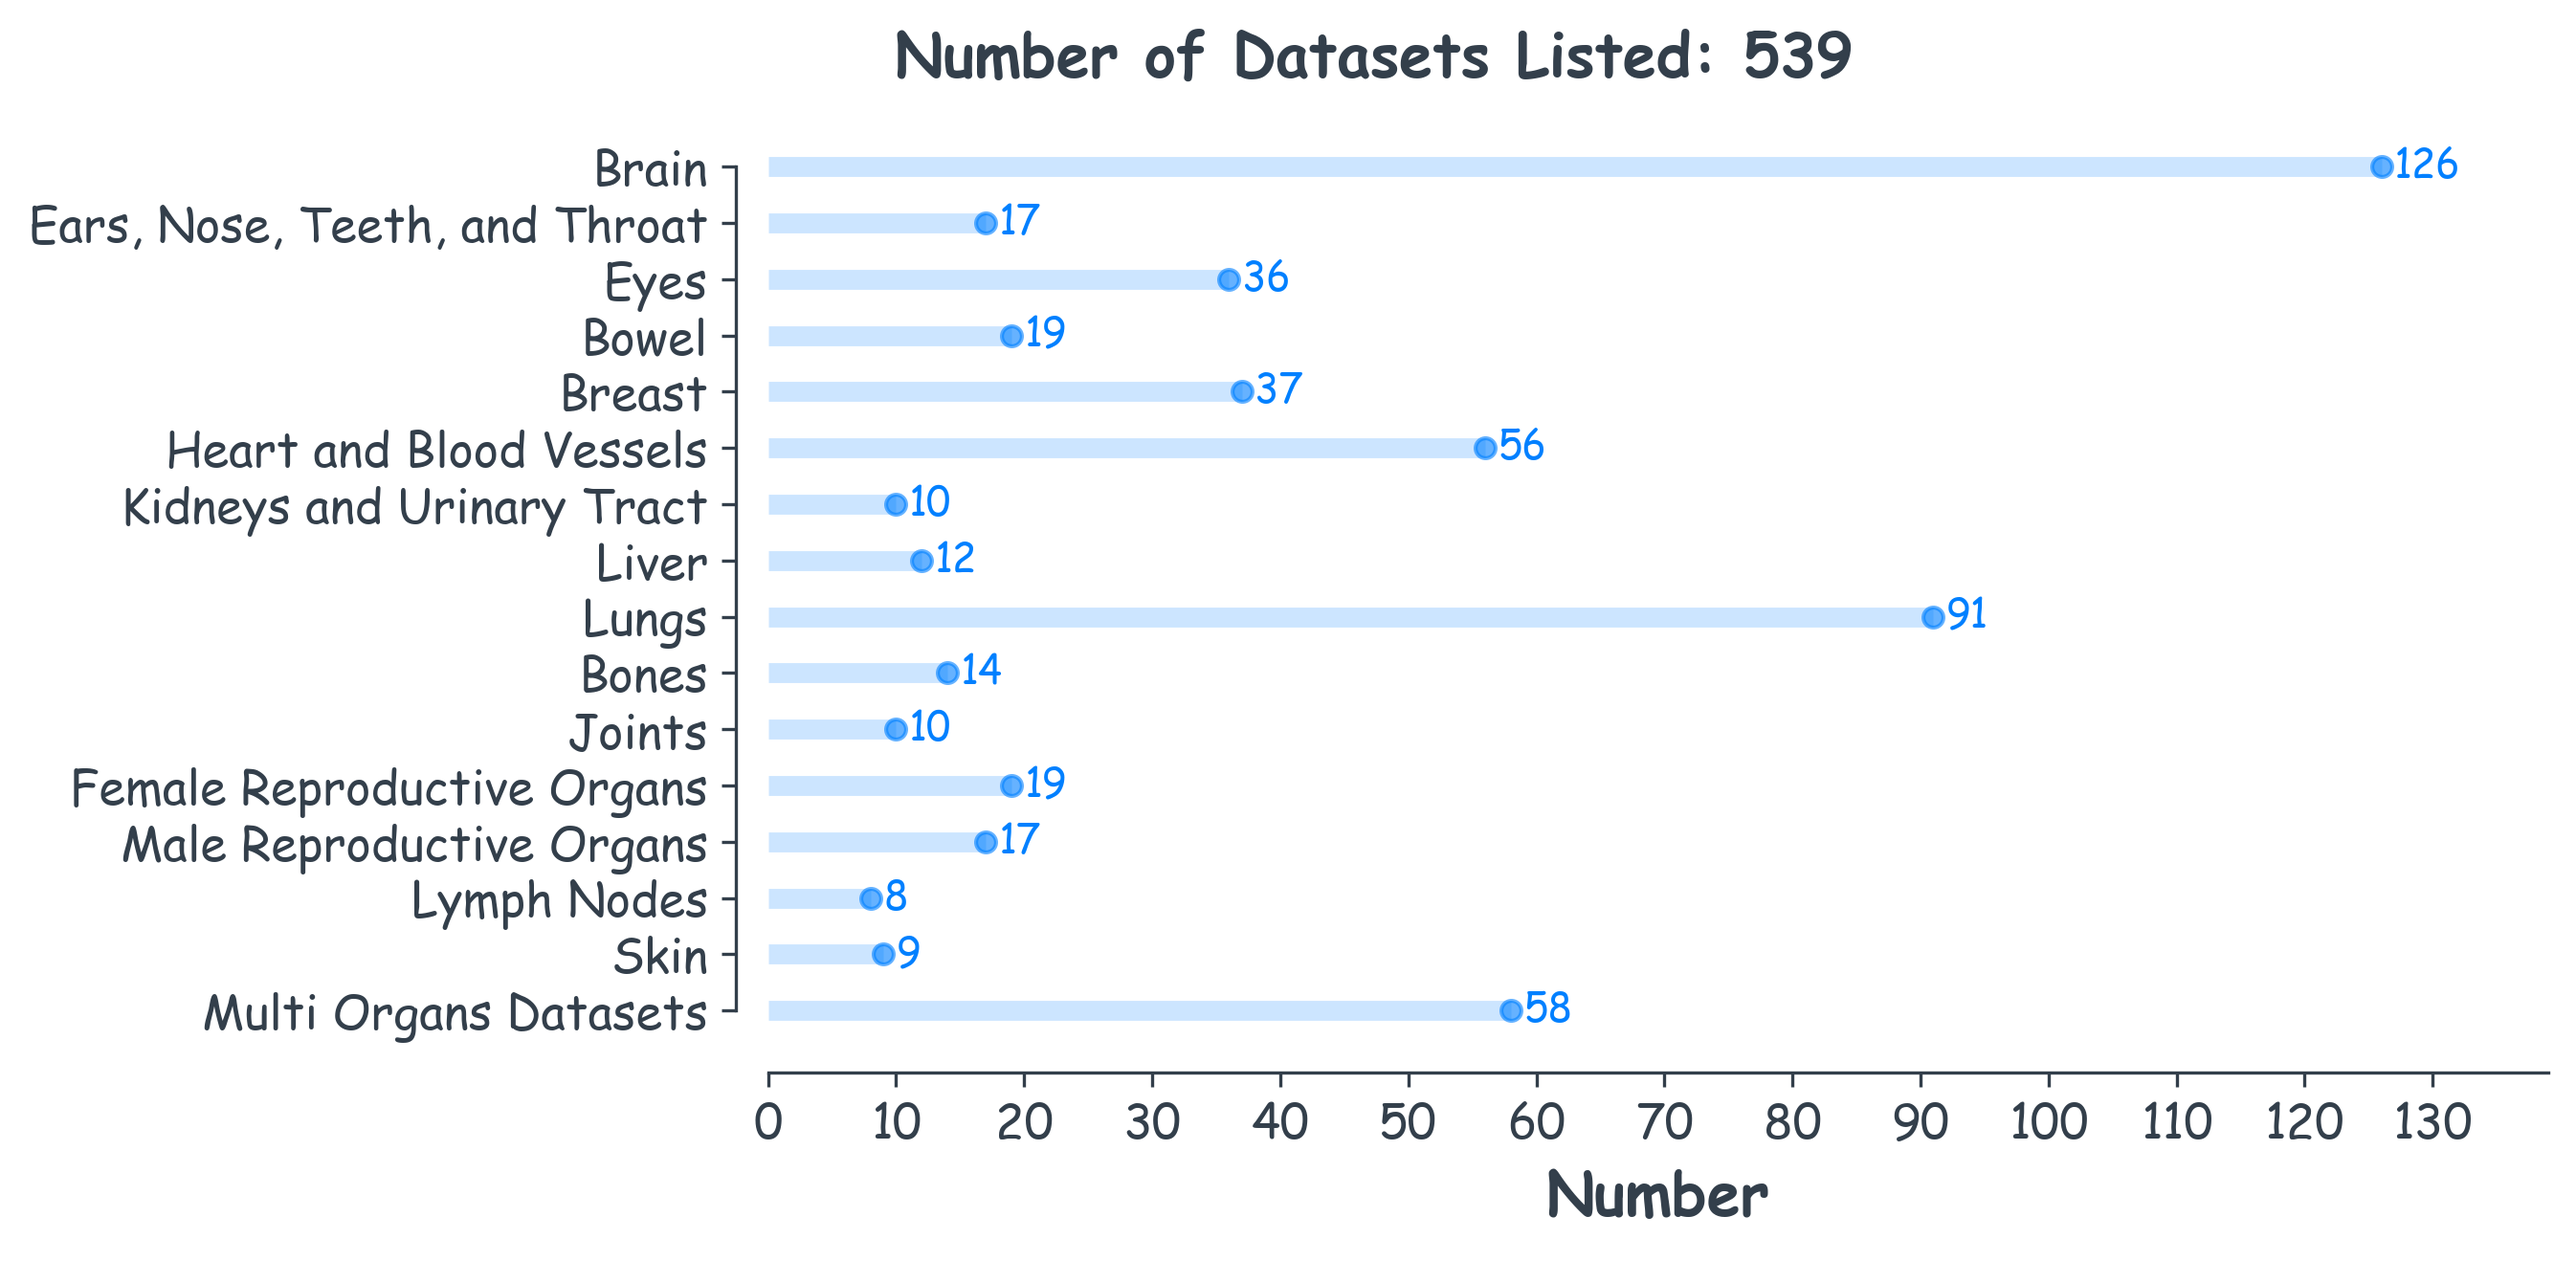
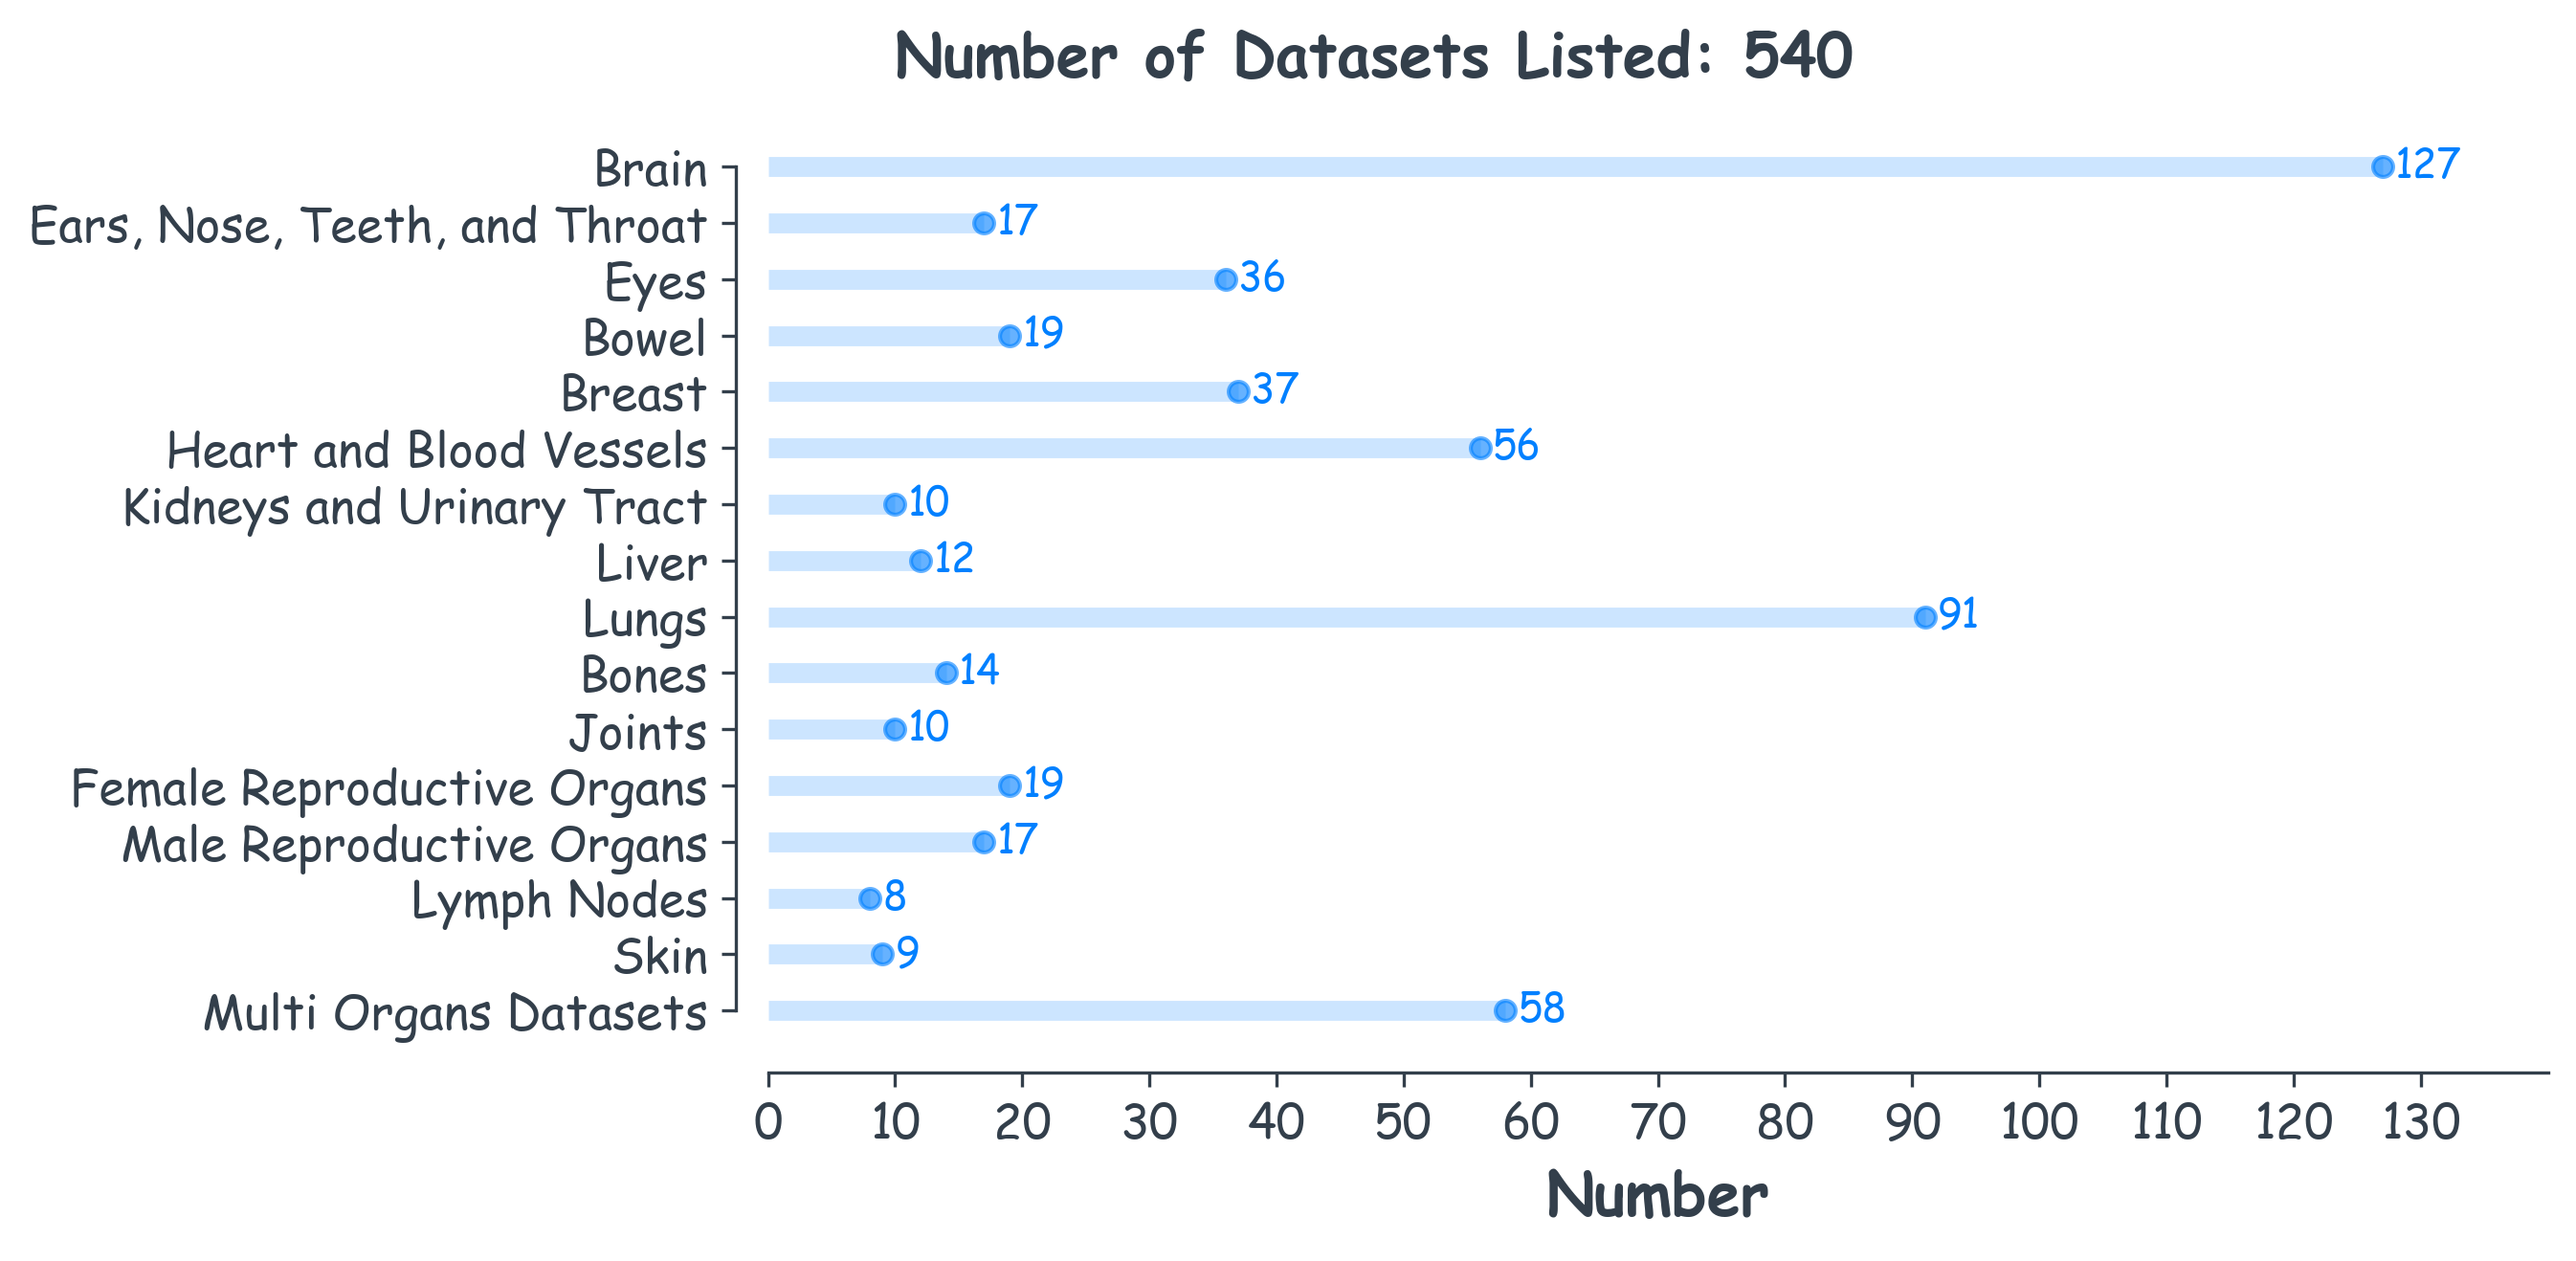
update image number, N = 540

diff --git a/src/datasetNumberImage.py b/src/datasetNumberImage.py
@@ -29,7 +29,7 @@ plt.rcParams['text.color']='#333F4B'
 
 
 data = {
-       'Brain': 126,
+       'Brain': 127,
        'Ears, Nose, Teeth, and Throat': 17, 
        'Eyes': 36,
        'Bowel': 19,
